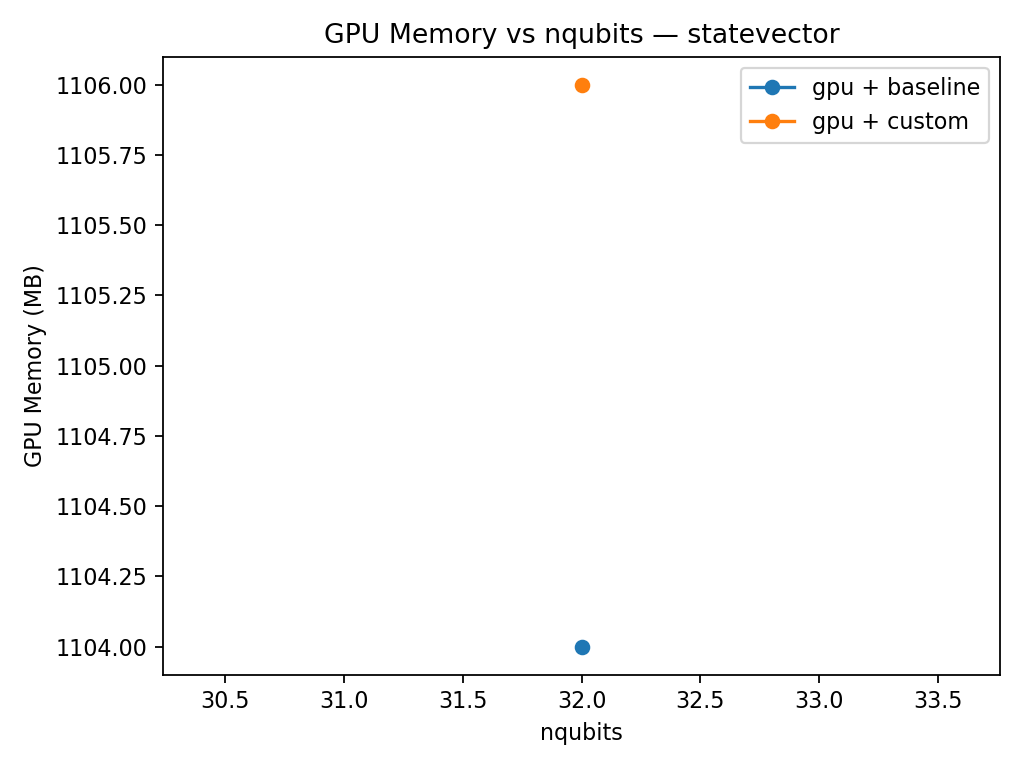
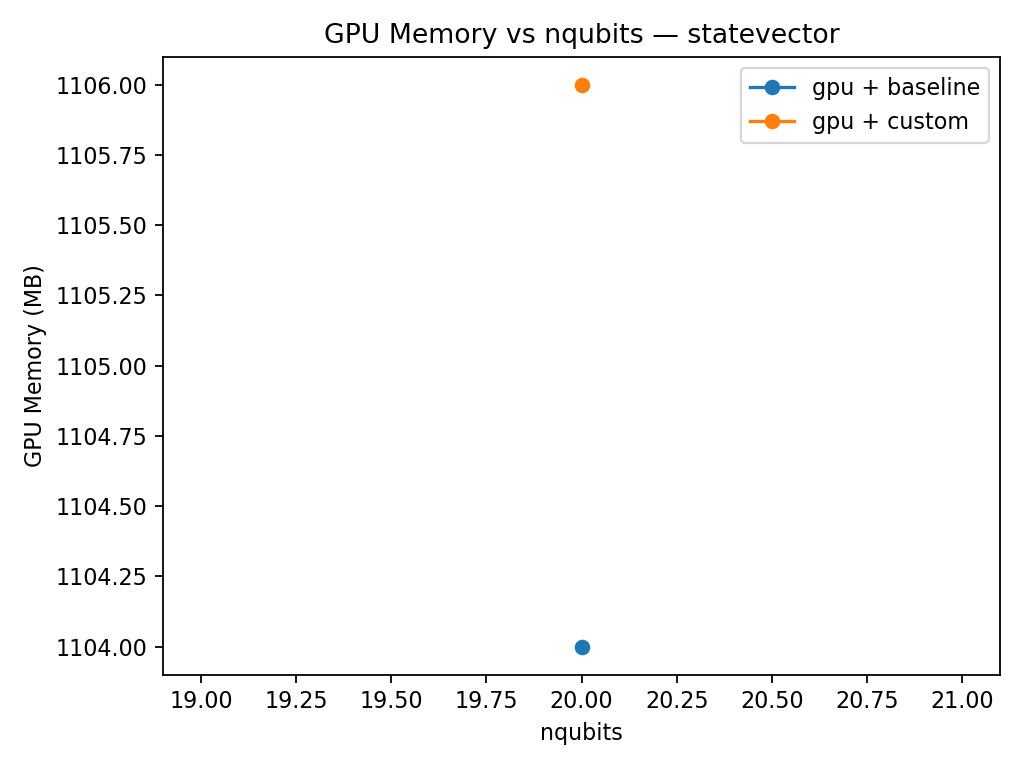
added optimizations for runnng benchmarks

diff --git a/benches/run_benchmarks.py b/benches/run_benchmarks.py
@@ -15,6 +15,13 @@ from qgpusim.metrics.correctness import total_variation_distance, statevector_ov
 from qgpusim.runner import run_once
 from qgpusim.transpiler.pm import make_baseline_pm, make_custom_pm
 
+# Module-level cache for CPU reference results
+# Key: (circuit, nqubits, depth, seed, task, shots)
+# Value: dict with 'logged' flag (we only log to CSV once per unique circuit)
+# For small qubit counts: stores ref_sv/ref_counts for correctness comparison
+# For large qubit counts (>=32): only stores 'logged' flag to skip redundant CPU runs
+_CPU_REF_CACHE: Dict[tuple, dict] = {}
+
 
 
 # def single_backend(combo: Dict, fieldnames: list, env: dict, qc: QuantumCircuit, args):
@@ -168,6 +175,7 @@ def single_backend(combo: Dict, fieldnames: list, env: dict, qc: QuantumCircuit,
     ref_device = None
     if not skip_comparison:
         ref_sim, ref_device = create_simulator("gpu", combo["tasks"])
+        print("sim precision:", ref_sim.options.get("precision", None))
         if "GPU" not in ref_device:
             raise RuntimeError("GPU not present/available for reference run")
     
@@ -355,9 +363,14 @@ def compare_both_backends(combo: Dict, qc: QuantumCircuit, fieldnames: List[str]
     # last arg might not be needed
     env = _env_info()
 
+    # Skip CPU reference for custom+custom - custom backend is GPU-only
+    skip_cpu = (combo["transpiler"] == "custom" and combo["backend"] == "custom")
+    if skip_cpu:
+        print(f"[INFO] Skipping CPU reference for custom+custom (GPU-only backend)")
+
     # For large qubit counts, skip comparison to avoid holding two statevectors in memory
-    skip_comparison = combo["nqubits"] >= 32
-    if skip_comparison:
+    skip_comparison = combo["nqubits"] >= 32 or skip_cpu
+    if skip_comparison and not skip_cpu:
         print(f"[INFO] nqubits={combo['nqubits']} >= 32: skipping comparison to save memory (will run both but not compare)")
 
     def _filtered(row: Dict[str, object]) -> Dict[str, object]:
@@ -421,35 +434,58 @@ def compare_both_backends(combo: Dict, qc: QuantumCircuit, fieldnames: List[str]
         
 
     # build CPU ref sim - always use baseline transpiler + aer backend as gold standard
-    cpu_sim, cpu_device = create_simulator("cpu", combo["tasks"])
     ref_sv = None
     ref_counts = None
     
-    for i in range(combo["repeats"]):
-        # reference run (ONE run for all repeats) ####CHANGED TO REPEATS NOT ONE RUN######
-        # for i in range(args.repeats):
-        ref_trans_sec, ref_sim_sec, ref_extra, ref_stats, ref_res = run_once(
-            sim=cpu_sim, qc=qc,task=combo["tasks"], shots=combo["shots"], measure=True,
-            transpiler=combo["transpiler"], num_local_qubits=combo["nL"], backend="aer", device_used=cpu_device
+    # Cache key for CPU reference (doesn't depend on nL, transpiler, or backend - those are GPU-side)
+    cache_key = (combo["circuit"], combo["nqubits"], combo["depth"], combo["seed"], combo["tasks"], combo["shots"])
+    
+    # CPU only does one run (too slow for multiple repeats) - skip for custom+custom (GPU-only)
+    if not skip_cpu:
+        # Check if we already have a cached CPU reference for this circuit config
+        if cache_key in _CPU_REF_CACHE:
+            cached = _CPU_REF_CACHE[cache_key]
+            if skip_comparison:
+                # Large qubit count - just skip CPU entirely, we already logged it
+                print(f"[INFO] Skipping CPU (already logged for this circuit config)")
+            else:
+                # Smaller qubit count - use cached statevector/counts for comparison
+                print(f"[INFO] Using cached CPU reference for {cache_key[:4]}")
+                ref_sv = cached.get("ref_sv")
+                ref_counts = cached.get("ref_counts")
+            # Don't log to CSV again - already logged on first run
+        else:
+            # Run CPU reference and cache it
+            cpu_sim, cpu_device = create_simulator("cpu", combo["tasks"])
+            
+            ref_trans_sec, ref_sim_sec, ref_extra, ref_stats, ref_res = run_once(
+                sim=cpu_sim, qc=qc,task=combo["tasks"], shots=combo["shots"], measure=True,
+                transpiler="baseline", num_local_qubits=combo["nL"], backend="aer", device_used=cpu_device
             )
 
-        # extract ref artifact - only if we need comparison (to avoid holding large statevectors)
-        if not skip_comparison:
-            ref_sv = ref_extra.get("statevector") if combo["tasks"] == "statevector" else None
-            ref_counts = ref_extra.get("counts") if combo["tasks"] != "statevector" else None
-        
-        # Free memory immediately if skipping comparison
-        if skip_comparison and combo["tasks"] == "statevector":
-            del ref_extra
-            import gc; gc.collect()
+            # extract ref artifact - only if we need comparison (to avoid holding large statevectors)
+            if not skip_comparison:
+                ref_sv = ref_extra.get("statevector") if combo["tasks"] == "statevector" else None
+                ref_counts = ref_extra.get("counts") if combo["tasks"] != "statevector" else None
+                
+                # Cache the reference result for reuse (holds memory for smaller circuits)
+                _CPU_REF_CACHE[cache_key] = {
+                    "ref_sv": ref_sv,
+                    "ref_counts": ref_counts,
+                }
+            else:
+                # Large qubit count - just mark as logged, don't store statevector
+                _CPU_REF_CACHE[cache_key] = {"logged": True}
+                del ref_extra
+                import gc; gc.collect()
 
-        # if csv_path and combo["transpiler"] == "baseline" and combo["backend"] == "aer":
-        if csv_path:
-            note = "reference" if not skip_comparison else "reference (no comparison - large qubit count)"
-            cpu_row = _row_base("cpu", cpu_device, 0, ref_trans_sec, ref_sim_sec, notes=note)
-            _inject_stats(cpu_row, ref_stats, ref_res)
-            # correctness cols stay blank for ref
-            _append_csv(csv_path, _filtered(cpu_row), fieldnames)
+            # if csv_path and combo["transpiler"] == "baseline" and combo["backend"] == "aer":
+            if csv_path:
+                note = "reference" if not skip_comparison else "reference (no comparison - large qubit count)"
+                cpu_row = _row_base("cpu", cpu_device, 0, ref_trans_sec, ref_sim_sec, notes=note)
+                _inject_stats(cpu_row, ref_stats, ref_res)
+                # correctness cols stay blank for ref
+                _append_csv(csv_path, _filtered(cpu_row), fieldnames)
 
     gpu_sim, gpu_device = create_simulator("gpu", combo["tasks"])
     if "GPU" not in gpu_device:
@@ -516,19 +552,19 @@ def main():
         "mode": ["gpu"],
         "tasks": ["statevector"],
         "circuit": ["random"],
-        "nqubits": [32],
+        "nqubits": [32], #20, 25, 26, 27, 28, 29, 30, 31, 32
         "depth": [16],
         "shots": [1024],
         "repeats": [1],
         "seed": [42],
-        "nL": [14],
+        "nL": [32], #4, 6, 8, 10, 12, 14, 16 maybe [4, 8, 12, 16, 20, 24]
         # "transpiler": ["baseline", "custom"],  # filled in later
         # "backend": ["aer", "custom"],     # filled in later
     }
     
     # # Valid (transpiler, backend) pairs
     valid_transpiler_backend_pairs = [
-        ("baseline", "aer"),
+        # ("baseline", "aer"),
         ("custom", "custom"),
     ]
 

diff --git a/benches/plotting.py b/benches/plotting.py
@@ -591,32 +591,68 @@ def plot_kernel_launches_comparison(df, outdir):
         # Custom backend (gpu + custom + custom)
         custom_sub = sub[(sub['transpiler'] == 'custom') & (sub['backend'] == 'custom')]
         if not custom_sub.empty:
-            # Kernel launches (should be 0 or very low for graphed mode)
-            custom_med = (
-                custom_sub
-                .groupby('nqubits', as_index=False)['num_kernel_launches']
-                .median()
-                .sort_values('nqubits')
-            )
-            if not custom_med.empty:
-                plt.plot(custom_med['nqubits'], custom_med['num_kernel_launches'],
-                         marker='s', linewidth=2, markersize=8,
-                         label='gpu + custom (graphed) - kernel launches')
-                plotted_any = True
+            # --- Pick best nL for each nqubits (min total_s) ---
+            if 'nL' in custom_sub.columns and custom_sub['nL'].notna().any() and 'total_s' in custom_sub.columns:
+                # median per (nL, nqubits) for total_s to determine best nL
+                med_by_nL = (
+                    custom_sub.groupby(['nL', 'nqubits'], as_index=False)
+                    .agg({'total_s': 'median', 'num_kernel_launches': 'median', 
+                          **({'num_graph_replays': 'median'} if 'num_graph_replays' in custom_sub.columns else {})})
+                )
+                # Find best nL for each nqubits (min total_s)
+                idx_best = med_by_nL.groupby('nqubits')['total_s'].idxmin()
+                best_rows = med_by_nL.loc[idx_best].sort_values('nqubits')
+                
+                # Plot kernel launches for best nL
+                if not best_rows.empty:
+                    line, = plt.plot(best_rows['nqubits'], best_rows['num_kernel_launches'],
+                             marker='s', linewidth=2, markersize=8,
+                             label='gpu + custom (best nL) - kernel launches')
+                    plotted_any = True
+                    
+                    # Annotate each point with the best nL value
+                    for _, row in best_rows.iterrows():
+                        plt.annotate(f"nL={int(row['nL'])}",
+                                     xy=(row['nqubits'], row['num_kernel_launches']),
+                                     xytext=(5, 5),
+                                     textcoords='offset points',
+                                     fontsize=8,
+                                     color=line.get_color())
 
-            # Graph replays (this is what custom actually does)
-            if 'num_graph_replays' in custom_sub.columns:
-                graph_med = (
+                # Graph replays for best nL
+                if 'num_graph_replays' in best_rows.columns and best_rows['num_graph_replays'].sum() > 0:
+                    line2, = plt.plot(best_rows['nqubits'], best_rows['num_graph_replays'],
+                             marker='^', linewidth=2, markersize=8,
+                             label='gpu + custom (best nL) - graph replays')
+                    plotted_any = True
+            else:
+                # Fallback: aggregate all nL values
+                # Kernel launches (should be 0 or very low for graphed mode)
+                custom_med = (
                     custom_sub
-                    .groupby('nqubits', as_index=False)['num_graph_replays']
+                    .groupby('nqubits', as_index=False)['num_kernel_launches']
                     .median()
                     .sort_values('nqubits')
                 )
-                if not graph_med.empty and graph_med['num_graph_replays'].sum() > 0:
-                    plt.plot(graph_med['nqubits'], graph_med['num_graph_replays'],
-                             marker='^', linewidth=2, markersize=8,
-                             label='gpu + custom (graphed) - graph replays')
+                if not custom_med.empty:
+                    plt.plot(custom_med['nqubits'], custom_med['num_kernel_launches'],
+                             marker='s', linewidth=2, markersize=8,
+                             label='gpu + custom (graphed) - kernel launches')
                     plotted_any = True
+
+                # Graph replays (this is what custom actually does)
+                if 'num_graph_replays' in custom_sub.columns:
+                    graph_med = (
+                        custom_sub
+                        .groupby('nqubits', as_index=False)['num_graph_replays']
+                        .median()
+                        .sort_values('nqubits')
+                    )
+                    if not graph_med.empty and graph_med['num_graph_replays'].sum() > 0:
+                        plt.plot(graph_med['nqubits'], graph_med['num_graph_replays'],
+                                 marker='^', linewidth=2, markersize=8,
+                                 label='gpu + custom (graphed) - graph replays')
+                        plotted_any = True
 
         if not plotted_any:
             plt.close()

diff --git a/qgpusim/runner.py b/qgpusim/runner.py
@@ -117,11 +117,20 @@ def run_once(sim: AerSimulator, qc: QuantumCircuit, task: str, shots: int, measu
                 sv = Statevector(vec)
                 # Keep as numpy array - avoid slow Python list conversion
                 extra = {"statevector": np.asarray(sv.data, dtype=np.complex64)}
+                # Free Aer's internal buffers to match custom backend's memory cleanup
+
+                del sv, vec
             except Exception:
                 extra = {"statevector": None}
         else:
             counts = result.get_counts(tqc)
             extra = {"counts": counts}
+        
+        # Explicit cleanup of Aer result object and garbage collection
+        # This ensures fair RSS comparison with custom backend which also frees memory
+        del result
+        import gc
+        gc.collect()
     
     res_peak = _max_usage(res_peak, _mem_snapshot())
 

diff --git a/qgpusim/backends/aer/backend.py b/qgpusim/backends/aer/backend.py
@@ -25,7 +25,7 @@ def create_simulator(
     # Let Aer defaults decide precision unless you need match precision exactly.
     # (If you want apples-to-apples vs your custom implementation, pass "single"/"double")
     if precision is not None:
-        sim_options["precision"] = precision
+        sim_options["precision"] = "single"
 
     device_used = "CPU"
     if backend == "cpu":
